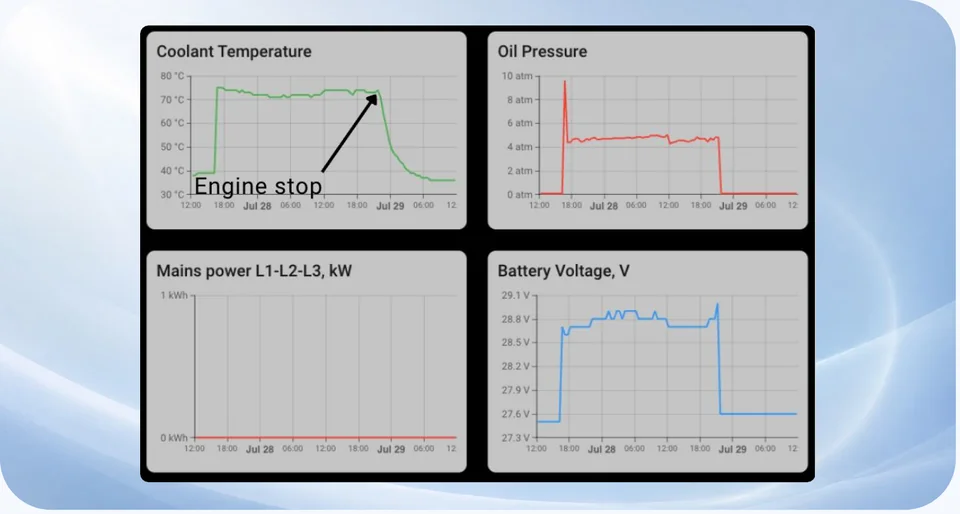
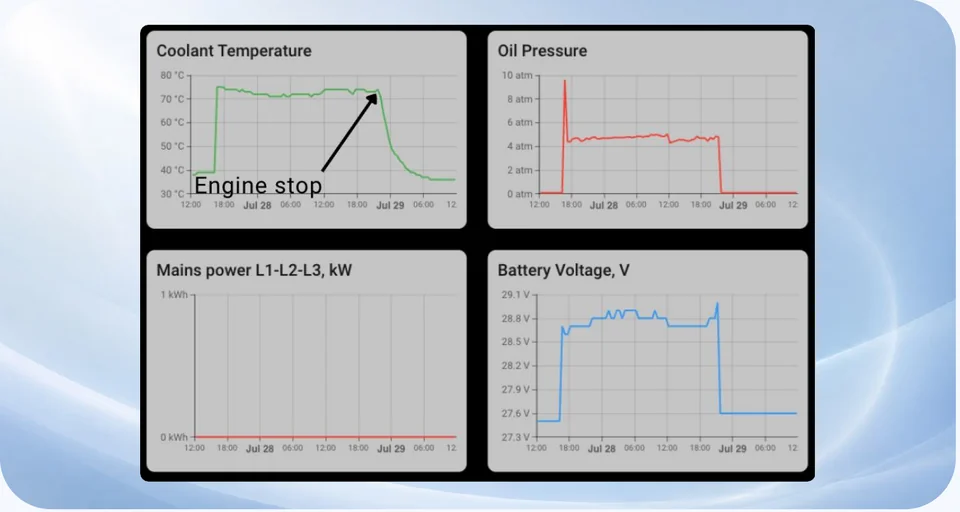
Fix GREENNET regions, shorten page title, align breadcrumb and images with peer conventions

diff --git a/src/data/case-studies/cuba-iot-platform.ts b/src/data/case-studies/cuba-iot-platform.ts
@@ -2,11 +2,11 @@ import type { CaseStudyData } from './types';
 
 export const data: CaseStudyData = {
 	title: 'Backup power IoT in Kazakhstan: how CUBA IoT Platform monitors diesel generators with ThingsBoard',
-	pageTitle: 'Backup Power IoT in Kazakhstan: How CUBA IoT Platform Monitors Diesel Generators',
+	pageTitle: 'How CUBA IoT Platform Monitors Diesel Generators',
 	description:
 		'CUBA IoT Platform connects diesel generator controllers to ThingsBoard via CUBA RePort gateways: fleet dashboards, alarms, fuel and readiness monitoring.',
 	pageSlug: 'cuba-iot-platform',
-	breadcrumb: 'CUBA IoT Platform — Diesel Generator Monitoring',
+	breadcrumb: 'CUBA IoT Platform — Facility Management',
 	categories: ['Facility management'],
 
 	hero: {
@@ -18,8 +18,6 @@ export const data: CaseStudyData = {
 		],
 		logo: '/images/case-studies/cuba-iot-platform-logo.png',
 		logoAlt: 'CUBA IoT Platform logo',
-		logoWidth: 240,
-		logoHeight: 91,
 		backgroundImage: '/images/case-studies/cuba-iot-platform.webp',
 	},
 
@@ -160,7 +158,7 @@ export const data: CaseStudyData = {
 				text: 'ThingsBoard sends alerts through configured notification channels when critical events occur. This reduces response time and allows service teams to act before the backup power system becomes unavailable.',
 				images: [
 					{
-						src: 'https://img.thingsboard.io/case-studies/alarms-table.webp',
+						src: 'https://img.thingsboard.io/case-studies/alarms-table-2.webp',
 						alt: 'ThingsBoard alarms table widget',
 						title: 'ThingsBoard alarms table widget',
 					},

diff --git a/src/data/partners/distributors.ts b/src/data/partners/distributors.ts
@@ -719,7 +719,7 @@ export const DISTRIBUTORS: Distributor[] = [
 	},
 	{
 		name: "GREENNET",
-		regions: ["Europe"],
+		regions: ["Europe","Asia"],
 		countries: ["Ukraine","Poland","Georgia"],
 		email: "info@greennet.ua",
 		website: "greennet.ua",
